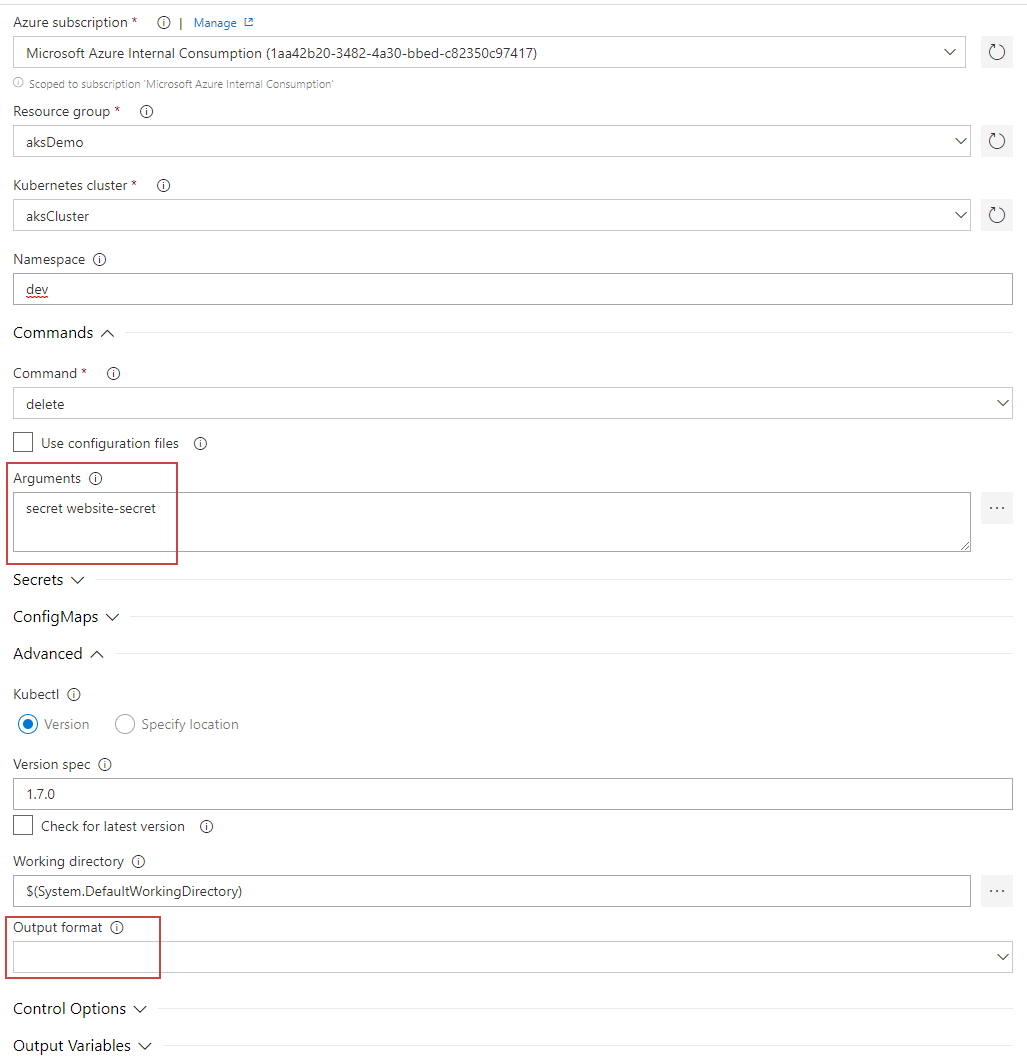
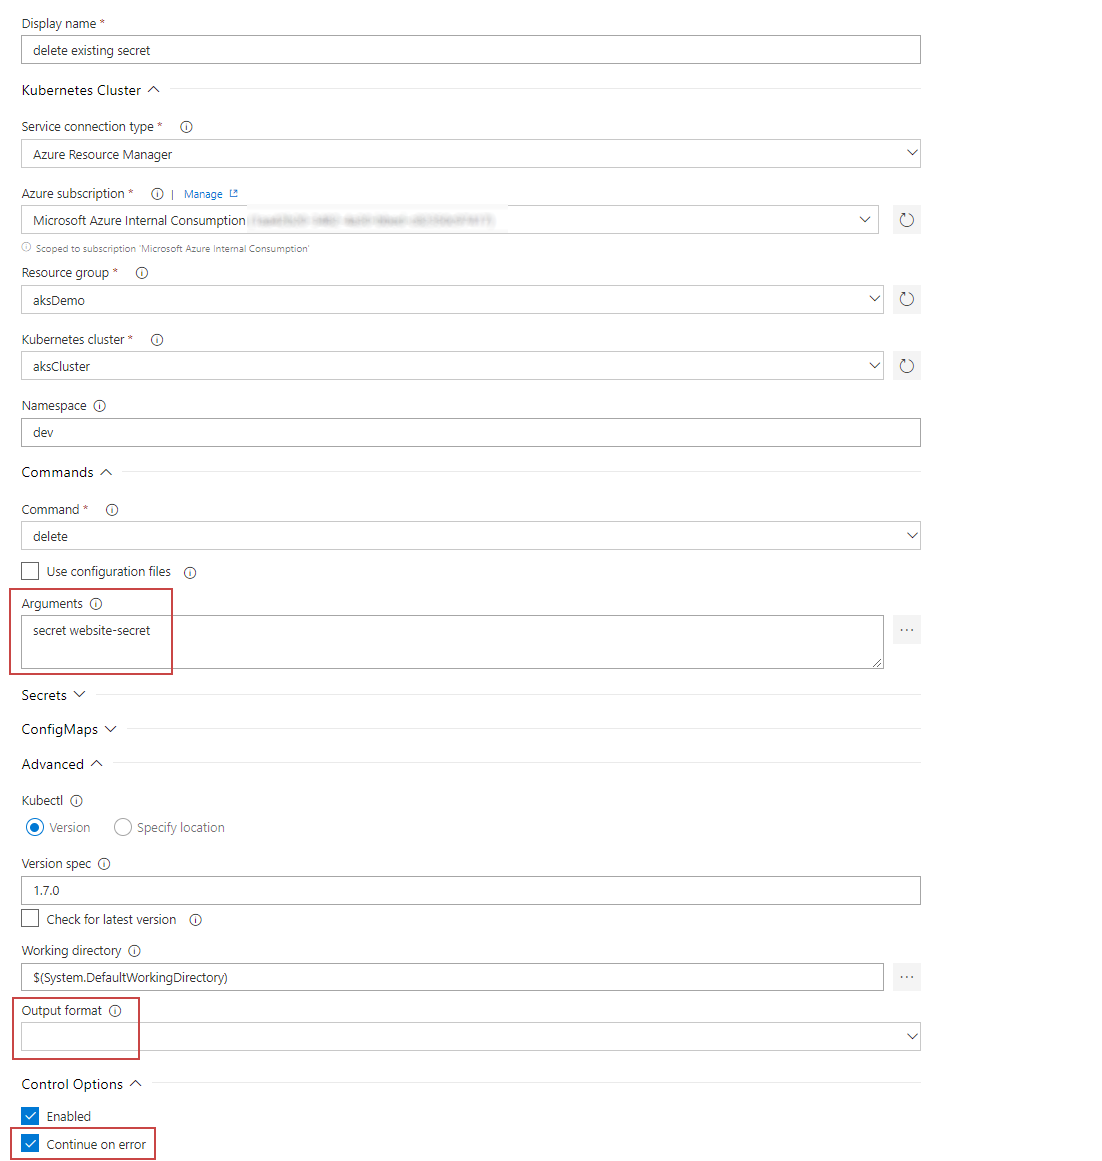
release pipleline

diff --git a/Source/AKSWebsite/Startup.cs b/Source/AKSWebsite/Startup.cs
@@ -47,15 +47,7 @@ namespace AKSWebsite
         // This method gets called by the runtime. Use this method to configure the HTTP request pipeline.
         public void Configure(IApplicationBuilder app, IHostingEnvironment env)
         {
-            if (env.IsDevelopment())
-            {
-                app.UseDeveloperExceptionPage();
-            }
-            else
-            {
-                app.UseExceptionHandler("/Home/Error");
-            }
-
+            app.UseDeveloperExceptionPage(); //We are leaving this on for this demo to help trace any errors
             app.UseStaticFiles();
             app.UseCookiePolicy();
 

diff --git a/Documentation/ReleasePipelines/README.md b/Documentation/ReleasePipelines/README.md
@@ -2,48 +2,56 @@
 
 # Release Pipelines
 
-## Replace Tokens
+Here we are going to create a release pipeline for the API and the Website which will be triggered from our build pipelines. We can set different config settings per environment.  
+
+## First install the Replace Tokens addon if you do not already have it
+
 https://marketplace.visualstudio.com/items?itemName=qetza.replacetokens
 
 
-## Create Kubernetes Release Pipeline
+# Create Kubernetes Release Pipeline
 
-### 1. Create New Release and Choose Deploy to Kubernetes Cluster
+## 1. Create New Release and Choose Deploy to Kubernetes Cluster
 
-![](images/newapireleasepipeline.png)
+![kubernetes template](images/newapireleasepipeline.png)
 
  > Once created click on the little pen where it says "New release pipeline" and rename the release to "API Release"
-### 2. Select Artifact
 
-![](images/chooseartifactreleasepipeline.png)
+## 2. Select Artifact
 
-### 3. Choose the API Build as the arftifacts for this release
-![](images/selectapibuildforrelease.png)
+![select source artifcats](images/chooseartifactreleasepipeline.png)
 
-### 4. Setup Continous Deployment by clicking on the lightening bolt 
-![](images/releaseci.png)
+## 2.1. Choose the API Build as the arftifacts for this release
 
-### 5. Check the enable button to create a release evrytime a build is available
-![](images/enablecireleasebutton.png)
+![Choose API Build](images/selectapibuildforrelease.png)
 
-### 6. Add Variables
+## 3. Setup Continous Deployment by clicking on the lightening bolt 
+
+![Enable CI](images/releaseci.png)
+
+### 3.1.  Check the enable button to create a release evrytime a build is available
+
+![Enable CI for Release](images/enablecireleasebutton.png)
+
+## 4. Add Variables
 
 For the registry location set the value to your ACR login server uri
 
-![](images/addregistryvariable.png)
+![Add Variables](images/addregistryvariable.png)
 
-### 7. Click into the Tasks for Stage 1
-![](images/editreleasetasks.png)
+## 5. Click into the Tasks for Stage 1
 
-### 8. Add Replace Tokens Task
+![Edit Release Tasks](images/editreleasetasks.png)
+
+## 6. Add Replace Tokens Task
 Click the plus icon next to "Agent Job" to add a new task and search for "replace"
 This addon needs to have been installed - https://marketplace.visualstudio.com/items?itemName=qetza.replacetokens
 
 In the List of tasks on the left, drag the Replace Tokens to the top
 
-![](images/replacetokenstask.png)
+![Replace Tokens](images/replacetokenstask.png)
 
-### 9. Edit the replace tokens task
+### 6.1. Edit the replace tokens task
 
 Set the target files to equal
 ```
@@ -55,9 +63,9 @@ Set the target files to equal
 This task will find all files in our artifacts that are YAML, Json or XML and then replace any values that match a pattern ```#{somethingToBeReplaced}#``` with the variables we have set in Step 6
 
 
-![](images/replacetokens.png)
+![Replace Tokens Config](images/replacetokens.png)
 
-### 10. Edit the Kubectl Apply Task
+## 7. Edit the Kubectl Apply Task
 
 1. Choose your subscription from the Azure Subscription drop down menu
 2. Choose the Resource Group that your AKS cluster belongs to in the Resource Group drop down menu
@@ -65,42 +73,149 @@ This task will find all files in our artifacts that are YAML, Json or XML and th
 4. Type ```dev``` into the Namespace (you should have already created a dev namespace during the creating your environment section)
 5. Tick the box labelled "use configuration files" and then select the deployment-api.yaml file
 
-![](images/apiapplycommand.png)
+![Kubernetes Apply Command](images/apiapplycommand.png)
 
-### 11. Save the changes made to your release 
+## 8. Save the changes made to your release 
 
-### 12. Trigger a new Release
+## 9. Trigger a new Release
 
-![](images/triggerrelease.png)
+![Trigger Release](images/triggerrelease.png)
 
-## Create the Website Release
+# Create the Website Release
 
 The release for the website is a little more complex as the service has more configuration, which we will inject into the container using config maps and secrets. 
 
-### 1. Repeat Steps 1-5 of the API build
+## 1. Repeat Steps 1-5 of the API build
 This time choose the Website build as the artifact and name the release "Website Release"
 
-### 2. Set the variable for this release
+## 2. Set the variable for this release
 
 1. Choose your ACR login server uri and set the api key and secret to whatever you like, as it is only for demo purposes. 
 2. Themes can be Default or Blue or Red
 3. Tick the lock button next to APIKey and Secret to hide the values
 
-![](images/websitevariables.png)
+![Website Variables](images/websitevariables.png)
 
-### Add Replace Tokens Task
+## 3. Add Replace Tokens Task
 
-Do the same as in steps 8 and 9 of the API release and make sure that this task is dragged to the top of all tasks
+Do the same as in Step 6 of the API release and make sure that this task is dragged to the top of all tasks
 
-### 
+## 4. Deploy a Kubernetes Secret into the Cluster
 
-![](images/kubernetesTask.png)
+### 4.1. Add a new Kubernetes Task
 
-delete secret
+Add a new task to the stage by clicking the plus icon next to the Agent Job and search for Kubernetes
 
-create secret
+![Add Kubernetes Task](images/kubernetesTask.png)
 
-> Tip! to find the correct path of the secret-website.json file, check the use configurations box above and select the file, copy the location back into the arguments, then un-check the use configurationsbox
+### 4.2. Delete the existing secret if it exists
+
+Edit the new task and set the following properties:
+
+1. Name the task ```delete secret```
+2. Choose your subscription from the Azure Subscription drop down menu
+3. Choose the Resource Group that your AKS cluster belongs to in the Resource Group drop down menu
+4. Choose your cluster from the Kubernetes cluster drop down menu
+5. Type ```dev``` into the Namespace (you should have already created a dev namespace during the creating your environment section)
+6. Command - delete
+7. Arguments - ```secret website-secret```
+8. Output format - keep this empty
+9. Check the box labelled "Continue on error"
+
+![Delete Secret](images/deletesecret.png)
+
+### 4.3. Deploy a new Secret 
+
+Add a new task Kubernetes task and Edit it with the following:
+
+1. Name the task ```create secret```
+2. Choose your subscription from the Azure Subscription drop down menu
+3. Choose the Resource Group that your AKS cluster belongs to in the Resource Group drop down menu
+4. Choose your cluster from the Kubernetes cluster drop down menu
+5. Type ```dev``` into the Namespace (you should have already created a dev namespace during the creating your environment section)
+6. Command - Create
+7. Arguments - ```secret generic website-secret --from-file=<Location of secret-website.json here>```
+
+> Tip - To find the location of secret-website.json check the box labelled use configuration files and then select the secret-website.json from the popup window. Copy and paste this into the arguments and then un-check the check box again
+
+![Create Secret](images/createsecret.png)
+
+> Tip - to find the correct path of the secret-website.json file, check the tick box labelled "use configurations" box above and select the file, copy the location back into the arguments, then un-check the use configurationsbox
+
+## 5. Deploy the XML Config Map
+
+
+### 5.1. Add a new Kubernetes Task
+
+Add a new task to the stage by clicking the plus icon next to the Agent Job and search for Kubernetes
+
+### 5.2. Delete the existing config map
+
+Edit the new task and set the following properties:
+
+1. Name the task ```delete xml config map```
+2. Choose your subscription from the Azure Subscription drop down menu
+3. Choose the Resource Group that your AKS cluster belongs to in the Resource Group drop down menu
+4. Choose your cluster from the Kubernetes cluster drop down menu
+5. Type ```dev``` into the Namespace (you should have already created a dev namespace during the creating your environment section)
+6. Command - delete
+7. Arguments -  ```configmap config-xml-website``
+8. Output format - keep this empty
+9. Check the box labelled "Continue on error"
+
+![Delete XML ConfigMap](images/deletexmlconfigmap.png)
+
+### 5.3. Deploy a new XML Config Map 
+
+Add a new task Kubernetes task and Edit it with the following:
+
+1. Name the task ```create xml config map```
+2. Choose your subscription from the Azure Subscription drop down menu
+3. Choose the Resource Group that your AKS cluster belongs to in the Resource Group drop down menu
+4. Choose your cluster from the Kubernetes cluster drop down menu
+5. Type ```dev``` into the Namespace (you should have already created a dev namespace during the creating your environment section)
+6. Command - Create
+7. Arguments - ```configmap config-xml-website --from-file=<Location of configmap-website.xml here>```
+
+![Create xml config map](images/createxmlconfigmap.png)
+
+> Again use the "Use configuration files" check box to discover the location of the file
+
+## 6. Create Json Config Map
+
+Add a new task Kubernetes task and Edit it with the following:
+
+1. Name the task ```create json config map```
+2. Choose your subscription from the Azure Subscription drop down menu
+3. Choose the Resource Group that your AKS cluster belongs to in the Resource Group drop down menu
+4. Choose your cluster from the Kubernetes cluster drop down menu
+5. Type ```dev``` into the Namespace (you should have already created a dev namespace during the creating your environment section)
+6. Command - apply
+7. Check the "Use Configuration Files" box and select the configmap-website.yaml file
+
+![create json config map](images/createjsonconfigmap.png)
+
+## 7. Deploy the Website
+
+Add a new task Kubernetes task and Edit it with the following:
+
+1. Name the task ```deploy website```
+2. Choose your subscription from the Azure Subscription drop down menu
+3. Choose the Resource Group that your AKS cluster belongs to in the Resource Group drop down menu
+4. Choose your cluster from the Kubernetes cluster drop down menu
+5. Type ```dev``` into the Namespace (you should have already created a dev namespace during the creating your environment section)
+6. Command - apply
+7. Check the "Use Configuration Files" box and select the deployment-website.yaml file
+
+![Deploy website](images/deploywebsite.png)
+
+## 8. Trigger a new Release
+
+Finally save the changes and click on the Release button to trigger a new release
+
+# Review
+
+After following these steps you should now have two release pipelines that are triggered from your builds. These pipelines replace values in your YAML build artifacts with variables in your release (Per Environment if required) and then deploy the config maps, secrets and services into the dev namespace of your cluster.
 
 
 # Next Steps 

diff --git a/Documentation/BuildPipelines/README.md b/Documentation/BuildPipelines/README.md
@@ -93,7 +93,7 @@ To test everything is working, click the Save and Queue new build button to trig
 
 Follow the same steps as the API build pipeline line with the following changes: 
 
-1. Set the title as ```Website Build Pipeline```
+1. Set the title as ```Website-Build-Pipeline```
 2. Set the Docker File in the docker build steps as ```Source/AKSWebsite/Dockerfile.ci```
 3. Set the Image Name in the docker build steps to ```website:$(Build.BuildId)```
 4. Set the Path to Publish in the Publish Artifacts step to ```Source/YAML/Website```
